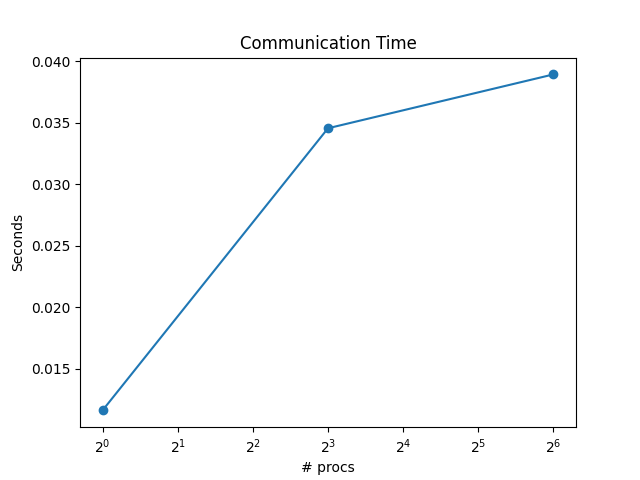
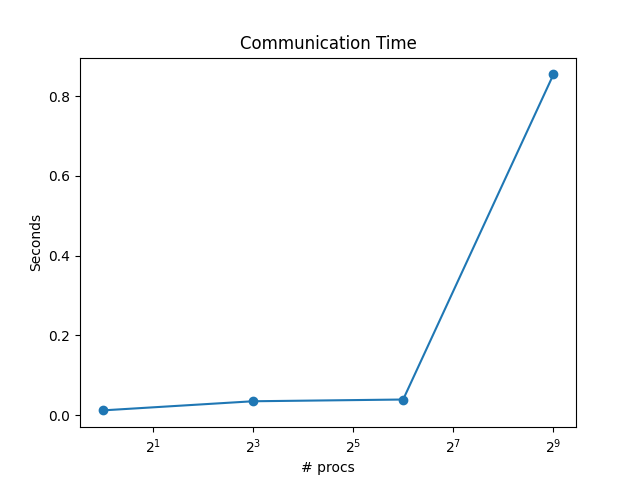
made new graphs

diff --git a/assignments/term/part2/graph.py b/assignments/term/part2/graph.py
@@ -3,23 +3,27 @@ import matplotlib.pyplot as plt
 comm_times = [0.0116205487, #  1x1x1
               0.0345491125, #  2x2x2
               0.0389265239, #  4x4x4
+              0.8548686944, #  8x8x8
               ]
 
 comp_times = [9.0052927778,  # 1x1x1
               1.2183946498,  # 2x2x2
               0.0684560120,  # 4x4x4
+              0.0086095084,  # 8x8x8
               ]
 total_times = [9.0169133265,  #  1x1x1
                1.2529437623,  #  2x2x2
                0.1073825359,  #  4x4x4
+               0.8634782028,  #  8x8x8
                ]
 
 speedup = [total_times[0] / total_times[0],
            total_times[0] / total_times[1],
            total_times[0] / total_times[2],
+           total_times[0] / total_times[3],
            ]
 
-x = [1, 8, 64]
+x = [1, 8, 64, 512]
 
 print(f'speedup: {speedup}')
 
